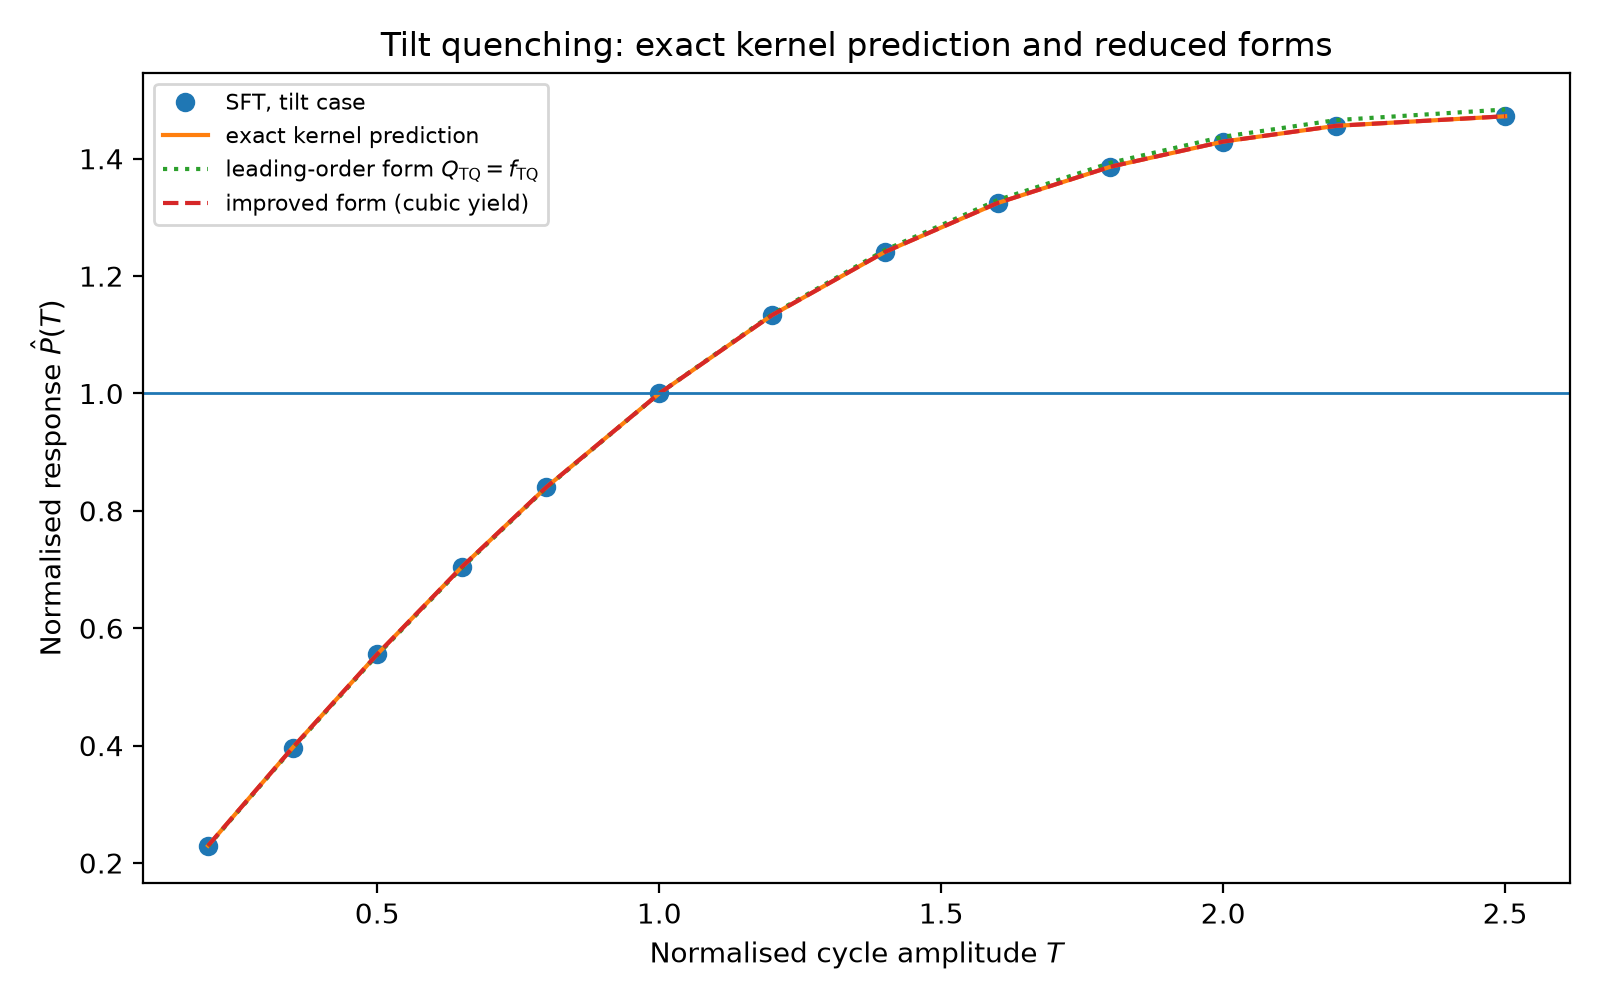
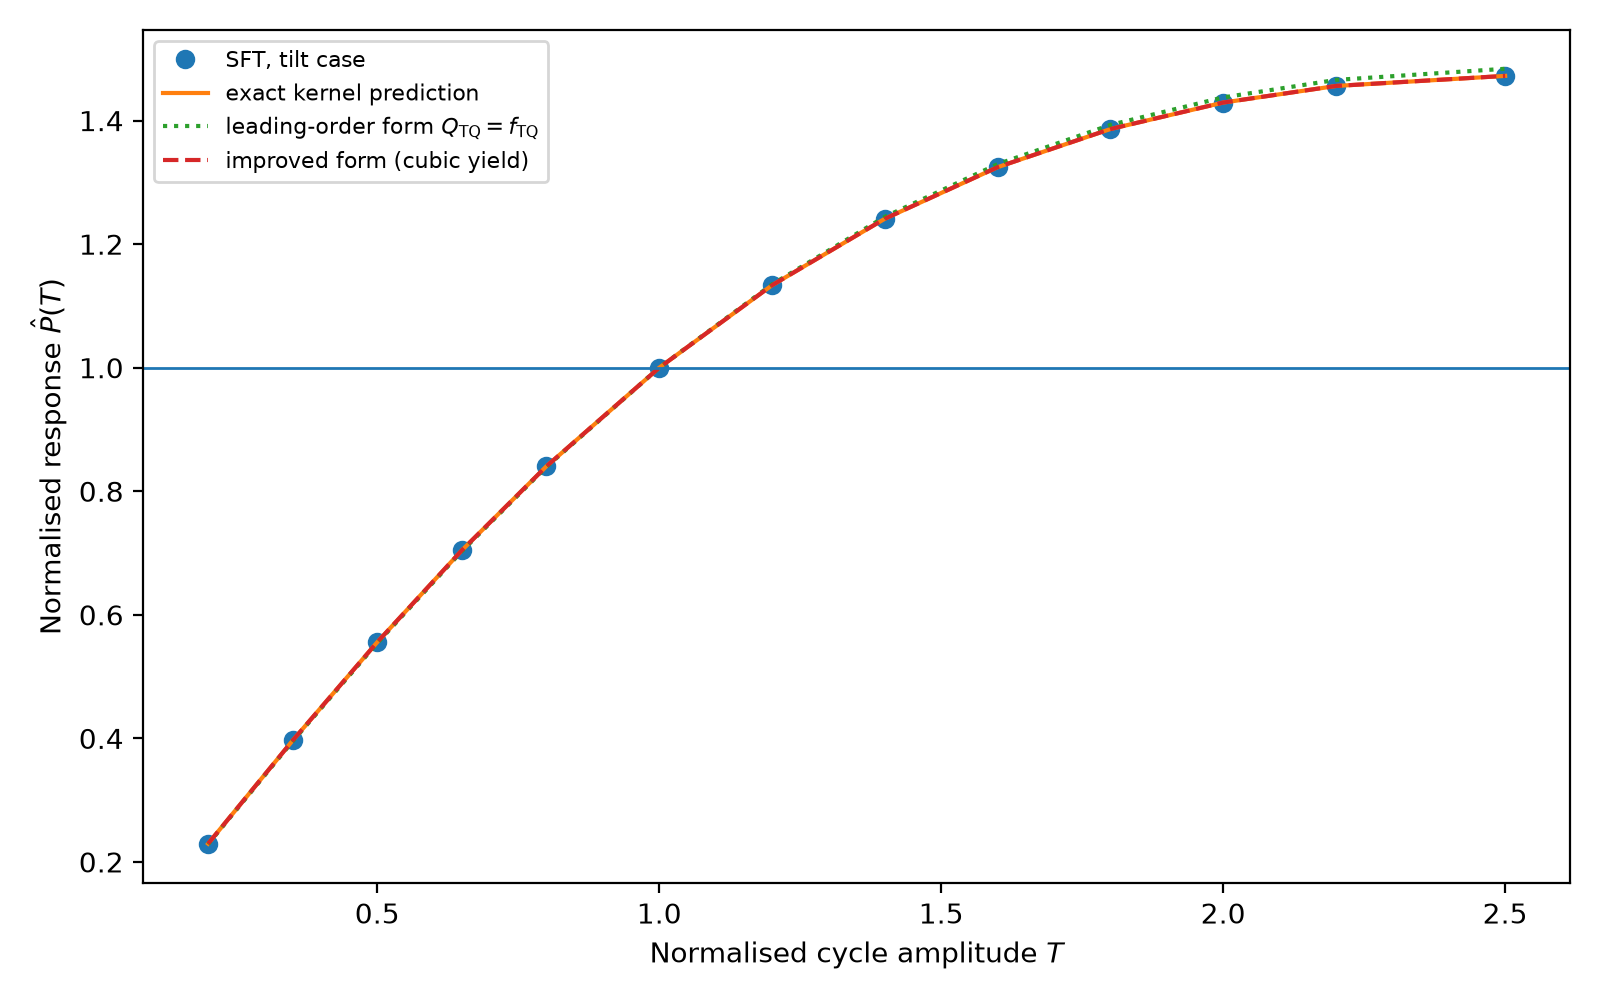
Remove figure-level titles from all plots
Every figure carried an in-figure title that repeated its caption. Springer
expects the caption to carry that role, so the 29 figure-level titles are
removed and the plot area is given over to the data.

Panel titles inside multi-panel figures are kept: the six remaining
set_title calls label individual panels, such as the gain value of each
amplitude sequence or the two panels of the decay-law figure, and removing
them would leave those panels unidentifiable.

All figures regenerated. All 13 tests pass. No numbers change.

Claude-Session: https://claude.ai/code/session_01PmgudpFb3qQz1S9TE53gMs

diff --git a/nonlinear_response_sft_experiment.py b/nonlinear_response_sft_experiment.py
@@ -841,7 +841,6 @@ def plot_results(results: Dict[str, Dict[str, np.ndarray]], p: SFTParams, outdir
     plt.axhline(0.0, linewidth=1)
     plt.xlabel(r"Normalised cycle amplitude $T$")
     plt.ylabel(r"Final signed axial dipole, $P(T)$ [arb. units]")
-    plt.title(r"Signed axial-dipole response")
     plt.legend(fontsize=8)
     plt.tight_layout()
     plt.savefig(os.path.join(outdir, "fig1_main_signed_axial_dipole_response_raw.png"), dpi=200)
@@ -853,7 +852,6 @@ def plot_results(results: Dict[str, Dict[str, np.ndarray]], p: SFTParams, outdir
         plt.plot(results[case]["T"], results[case]["P_abs"], "o-", label=labels[case])
     plt.xlabel(r"Normalised cycle amplitude $T$")
     plt.ylabel(r"Secondary response $|D(T)|$")
-    plt.title(r"Unsigned axial-dipole response")
     plt.legend(fontsize=8)
     plt.tight_layout()
     plt.savefig(os.path.join(outdir, "fig1b_unsigned_axial_dipole_response.png"), dpi=200)
@@ -870,7 +868,6 @@ def plot_results(results: Dict[str, Dict[str, np.ndarray]], p: SFTParams, outdir
     plt.axhline(1.0, linewidth=1)
     plt.xlabel(r"Normalised cycle amplitude $T$")
     plt.ylabel(r"Normalised response $\hat{P}(T)=P(T)/P(1)$")
-    plt.title(r"Normalised nonlinear response")
     plt.legend(fontsize=7, ncol=2)
     plt.tight_layout()
     plt.savefig(os.path.join(outdir, "fig2_normalized_response_vs_theory.png"), dpi=200)
@@ -885,7 +882,6 @@ def plot_results(results: Dict[str, Dict[str, np.ndarray]], p: SFTParams, outdir
     plt.axhline(0.0, linewidth=1)
     plt.xlabel(r"Normalised cycle amplitude $T$")
     plt.ylabel(r"$d\hat{P}/dT$")
-    plt.title(r"Normalised nonlinear response function")
     plt.legend(fontsize=8)
     plt.tight_layout()
     plt.savefig(os.path.join(outdir, "fig3_normalized_nonlinear_response.png"), dpi=200)
@@ -900,7 +896,6 @@ def plot_results(results: Dict[str, Dict[str, np.ndarray]], p: SFTParams, outdir
     plt.axhline(0.0, linewidth=1)
     plt.xlabel(r"Normalised cycle amplitude $T$")
     plt.ylabel(r"Signed axial dipole $D(T)$")
-    plt.title(r"Signed axial dipole response")
     plt.legend(fontsize=8)
     plt.tight_layout()
     plt.savefig(os.path.join(outdir, "fig4_signed_axial_dipole_response.png"), dpi=200)
@@ -914,7 +909,6 @@ def plot_results(results: Dict[str, Dict[str, np.ndarray]], p: SFTParams, outdir
         plt.plot(results[case]["T"], results[case]["P_polar"], "o-", label=labels[case])
     plt.xlabel(r"Normalised cycle amplitude $T$")
     plt.ylabel(r"Polar-cap proxy")
-    plt.title(r"Polar-cap field response, secondary diagnostic")
     plt.legend(fontsize=8)
     plt.tight_layout()
     plt.savefig(os.path.join(outdir, "fig5_polar_cap_response_secondary.png"), dpi=200)
@@ -929,7 +923,6 @@ def plot_results(results: Dict[str, Dict[str, np.ndarray]], p: SFTParams, outdir
         plt.plot(Tfine, q, label=labels[case])
     plt.xlabel(r"Normalised cycle amplitude $T$")
     plt.ylabel(r"Nonlinear efficiency $Q(T)$")
-    plt.title(r"Reduced nonlinear efficiency factors")
     plt.legend(fontsize=8)
     plt.tight_layout()
     plt.savefig(os.path.join(outdir, "fig6_Q_efficiency.png"), dpi=200)
@@ -948,7 +941,6 @@ def plot_results(results: Dict[str, Dict[str, np.ndarray]], p: SFTParams, outdir
     plt.axhline(1.0, linewidth=1, linestyle="--")
     plt.xlabel(r"Normalised cycle amplitude $T$")
     plt.ylabel(r"Effective gain $D_{\rm eff}=D_0Q(T)$")
-    plt.title(r"Finite-amplitude saturation condition")
     plt.legend(fontsize=8)
     plt.tight_layout()
     plt.savefig(os.path.join(outdir, "fig7_effective_gain.png"), dpi=200)
@@ -968,7 +960,6 @@ def plot_results(results: Dict[str, Dict[str, np.ndarray]], p: SFTParams, outdir
     plt.axhline(0.0, linewidth=1)
     plt.xlabel("Latitude [deg]")
     plt.ylabel("Final surface field [arb. units]")
-    plt.title("Final latitude profiles: combined nonlinear case")
     plt.legend(fontsize=8)
     plt.tight_layout()
     plt.savefig(os.path.join(outdir, "fig8_final_profiles_combined.png"), dpi=200)
@@ -1175,7 +1166,6 @@ def make_stability_map(p: SFTParams, outdir: str) -> None:
     )
     plt.xlabel(r"Tilt-quenching strength $b_{\rm TQ}$")
     plt.ylabel(r"Latitude-quenching strength $b_{\rm LQ}$")
-    plt.title(r"Reduced-theory stability map")
     cbar = plt.colorbar()
     cbar.set_ticks([0, 1, 2])
     cbar.set_ticklabels(["No fixed point", "Stable", "Unstable/modulated"])
@@ -1198,7 +1188,6 @@ def make_stability_map(p: SFTParams, outdir: str) -> None:
     )
     plt.xlabel(r"Tilt-quenching strength $b_{\rm TQ}$")
     plt.ylabel(r"Latitude-quenching strength $b_{\rm LQ}$")
-    plt.title(r"Saturated amplitude $T_*$")
     plt.colorbar(label=r"$T_*$")
     plt.tight_layout()
     plt.savefig(os.path.join(outdir, "fig10_Tstar_map.png"), dpi=200)
@@ -1215,7 +1204,6 @@ def make_stability_map(p: SFTParams, outdir: str) -> None:
     )
     plt.xlabel(r"Tilt-quenching strength $b_{\rm TQ}$")
     plt.ylabel(r"Latitude-quenching strength $b_{\rm LQ}$")
-    plt.title(r"Fixed-point derivative $\mathcal{M}'(T_*)$")
     plt.colorbar(label=r"$\mathcal{M}'(T_*)$")
     plt.tight_layout()
     plt.savefig(os.path.join(outdir, "fig11_Mprime_map.png"), dpi=200)

diff --git a/mathematical_framework_analysis.py b/mathematical_framework_analysis.py
@@ -349,7 +349,6 @@ def make_figures(p: nre.SFTParams, grid, K, w, S, omega, ladder, T_sft, Phat_sft
     plt.axhline(0.0, linewidth=1)
     plt.xlabel("Latitude [deg]")
     plt.ylabel(r"Kernel $K(\mu, t)/\Delta\mu$")
-    plt.title("Dipole-yield kernel at different emergence times")
     plt.legend(fontsize=8)
     plt.tight_layout()
     plt.savefig(os.path.join(OUTDIR, "figF1_kernel_evolution.png"), dpi=200)
@@ -369,7 +368,6 @@ def make_figures(p: nre.SFTParams, grid, K, w, S, omega, ladder, T_sft, Phat_sft
     plt.xlim(0.0, 60.0)
     plt.xlabel("Emergence latitude [deg]")
     plt.ylabel("Final-to-initial dipole yield")
-    plt.title("Dynamo effectivity range of the transport model")
     plt.legend(fontsize=8)
     plt.tight_layout()
     plt.savefig(os.path.join(OUTDIR, "figF2_intrinsic_effectivity_range.png"), dpi=200)
@@ -382,7 +380,6 @@ def make_figures(p: nre.SFTParams, grid, K, w, S, omega, ladder, T_sft, Phat_sft
     plt.plot(t_yr, env, "--", label=r"envelope $s_1(t)$ alone")
     plt.xlabel("Emergence time [yr]")
     plt.ylabel("Normalised weight")
-    plt.title("Effective emergence-time weighting of the final dipole")
     plt.legend(fontsize=8)
     plt.tight_layout()
     plt.savefig(os.path.join(OUTDIR, "figF3_yield_weights.png"), dpi=200)
@@ -398,7 +395,6 @@ def make_figures(p: nre.SFTParams, grid, K, w, S, omega, ladder, T_sft, Phat_sft
     plt.axhline(1.0, linewidth=1)
     plt.xlabel(r"Normalised cycle amplitude $T$")
     plt.ylabel(r"Normalised response $\hat{P}(T)$")
-    plt.title("Latitude quenching: hierarchy of approximations")
     plt.legend(fontsize=8)
     plt.tight_layout()
     plt.savefig(os.path.join(OUTDIR, "figF4_closure_ladder.png"), dpi=200)
@@ -439,7 +435,6 @@ def make_figures(p: nre.SFTParams, grid, K, w, S, omega, ladder, T_sft, Phat_sft
     axes[1].set_xlabel(r"Latitude-quenching strength $b_{\rm LQ}$ [deg]")
     axes[1].set_title(fr"$D_0 = {D0_fixed}$, varying $b_{{\rm LQ}}$")
 
-    fig.suptitle("Period doubling and modulation in the reduced cycle map")
     fig.tight_layout()
     fig.savefig(os.path.join(OUTDIR, "figF5_bifurcation.png"), dpi=200)
     plt.close(fig)

diff --git a/physical_validation_analysis.py b/physical_validation_analysis.py
@@ -350,7 +350,6 @@ if __name__ == "__main__":
     plt.axhline(0.0, linewidth=1)
     plt.xlabel("Pair centre latitude [deg]")
     plt.ylabel("Final-to-initial dipole yield")
-    plt.title("Dipole yield of the ring-pair source structure")
     plt.legend(fontsize=8)
     plt.tight_layout()
     plt.savefig(os.path.join(OUTDIR, "figV1_pair_yield.png"), dpi=200)
@@ -367,7 +366,6 @@ if __name__ == "__main__":
     plt.axhline(0.0, linewidth=1)
     plt.xlabel(r"Normalised cycle amplitude $T$")
     plt.ylabel(r"Latitude-quenching efficiency $Q(T) = D/(aT)$")
-    plt.title("Physical (shift-mode) latitude quenching vs reduced theory")
     plt.legend(fontsize=8)
     plt.tight_layout()
     plt.savefig(os.path.join(OUTDIR, "figV2_shift_validation.png"), dpi=200)
@@ -382,7 +380,6 @@ if __name__ == "__main__":
     plt.axhline(1.0, linewidth=1)
     plt.xlabel(r"Normalised cycle amplitude $T$")
     plt.ylabel(r"Normalised response $\hat{P}(T)$")
-    plt.title("Tilt quenching: exact kernel prediction and reduced forms")
     plt.legend(fontsize=8)
     plt.tight_layout()
     plt.savefig(os.path.join(OUTDIR, "figV3_tilt_exact.png"), dpi=200)
@@ -399,7 +396,6 @@ if __name__ == "__main__":
     plt.axhline(0.0, linewidth=1)
     plt.xlabel(r"Normalised cycle amplitude $T$")
     plt.ylabel(r"$T\,Q_{\rm IQ}(T)$ (dipole in units of $a$)")
-    plt.title("Physical converging inflows vs the rational efficiency factor")
     plt.legend(fontsize=8)
     plt.tight_layout()
     plt.savefig(os.path.join(OUTDIR, "figV4_inflow_validation.png"), dpi=200)
@@ -413,7 +409,6 @@ if __name__ == "__main__":
                 label=r"calibrated $b_{\rm IQ} = 0.2$ (Talafha et al. 2025)")
     plt.xlabel(r"Normalised cycle amplitude $T$")
     plt.ylabel(r"$b_{\rm eff}(T) = (1/Q_{\rm IQ} - 1)/T^2$")
-    plt.title("Constancy test of the rational inflow factor")
     plt.legend(fontsize=8)
     plt.tight_layout()
     plt.savefig(os.path.join(OUTDIR, "figV5_binflow_effective.png"), dpi=200)

diff --git a/multicycle_feedback_analysis.py b/multicycle_feedback_analysis.py
@@ -371,7 +371,6 @@ if __name__ == "__main__":
                  label=fr"dominant mode, $r_{{\rm eig}} = {r_eig:.3f}$")
     plt.xlabel("Elapsed periods (11 yr each)")
     plt.ylabel(r"$D(nP)/D(0)$")
-    plt.title("Cycle-to-cycle memory: dipole survival without sources")
     plt.legend(fontsize=8)
     plt.tight_layout()
     plt.savefig(os.path.join(OUTDIR, "figM1_memory_parameter.png"), dpi=200)
@@ -387,7 +386,6 @@ if __name__ == "__main__":
         ax.set_title(fr"$D_0 = {D0:.2f}$")
         ax.legend(fontsize=7)
     axes[-1].set_xlabel("Cycle number $n$")
-    fig.suptitle("Amplitude sequences: SFT with feedback vs reduced maps")
     fig.tight_layout()
     fig.savefig(os.path.join(OUTDIR, "figM2_time_series.png"), dpi=200)
     plt.close(fig)
@@ -402,7 +400,6 @@ if __name__ == "__main__":
                 label=fr"analytic period doubling (memoryless), $D_0 = {D0_pd_nomem:.2f}$")
     plt.xlabel(r"Linear gain $D_0 = k\,a$")
     plt.ylabel(r"Attractor of $T_n$")
-    plt.title("Multi-cycle SFT vs reduced maps: bifurcation structure")
     plt.legend(fontsize=8)
     plt.tight_layout()
     plt.savefig(os.path.join(OUTDIR, "figM3_bifurcation_comparison.png"), dpi=200)
@@ -422,7 +419,6 @@ if __name__ == "__main__":
     plt.plot(Tg, Tg, "-", linewidth=0.8, color="0.7")
     plt.xlabel(r"$T_n$")
     plt.ylabel(r"$T_{n+1}$")
-    plt.title(fr"Return map at $D_0 = {D0_ret:.2f}$")
     plt.legend(fontsize=8)
     plt.tight_layout()
     plt.savefig(os.path.join(OUTDIR, "figM4_return_map.png"), dpi=200)

diff --git a/parameter_space_analysis.py b/parameter_space_analysis.py
@@ -215,7 +215,6 @@ if __name__ == "__main__":
     contour_panel(axes[0], lamR_map, "Pair-yield effectivity range", r"$\lambda_R$ [deg]")
     contour_panel(axes[1], r1_map, "Cycle memory (one period)", r"$r$")
     contour_panel(axes[2], a_map, "Linear dipole yield", r"$a$")
-    fig.suptitle(r"Transport constants of the reduced theory ($\tau = \infty$)")
     fig.tight_layout()
     fig.savefig(os.path.join(OUTDIR, "figP1_transport_constant_maps.png"), dpi=200)
     plt.close(fig)
@@ -231,7 +230,6 @@ if __name__ == "__main__":
     plt.plot(xs, xs, ":", linewidth=1, color="0.6", label="one-to-one (pure transport)")
     plt.xlabel(r"Transport scale $\lambda_{\rm tr}=\sqrt{\eta/(2u_0R_\odot)}$ [deg]")
     plt.ylabel(r"Measured $\lambda_R^{\rm pair}$ [deg]")
-    plt.title("Scaling collapse of the effectivity range")
     plt.legend(fontsize=8)
     plt.tight_layout()
     plt.savefig(os.path.join(OUTDIR, "figP2_lambdaR_scaling.png"), dpi=200)
@@ -246,7 +244,6 @@ if __name__ == "__main__":
     plt.axhline(-100.0 * scatter_quad, linestyle=":", linewidth=1, color="0.5")
     plt.xlabel(r"Measured $\lambda_R^{\rm pair}$ [deg]")
     plt.ylabel("Relative residual of the quadrature law [\\%]")
-    plt.title("Residuals of the effectivity-range scaling law")
     plt.legend(fontsize=8)
     plt.tight_layout()
     plt.savefig(os.path.join(OUTDIR, "figP3_scaling_residuals.png"), dpi=200)
